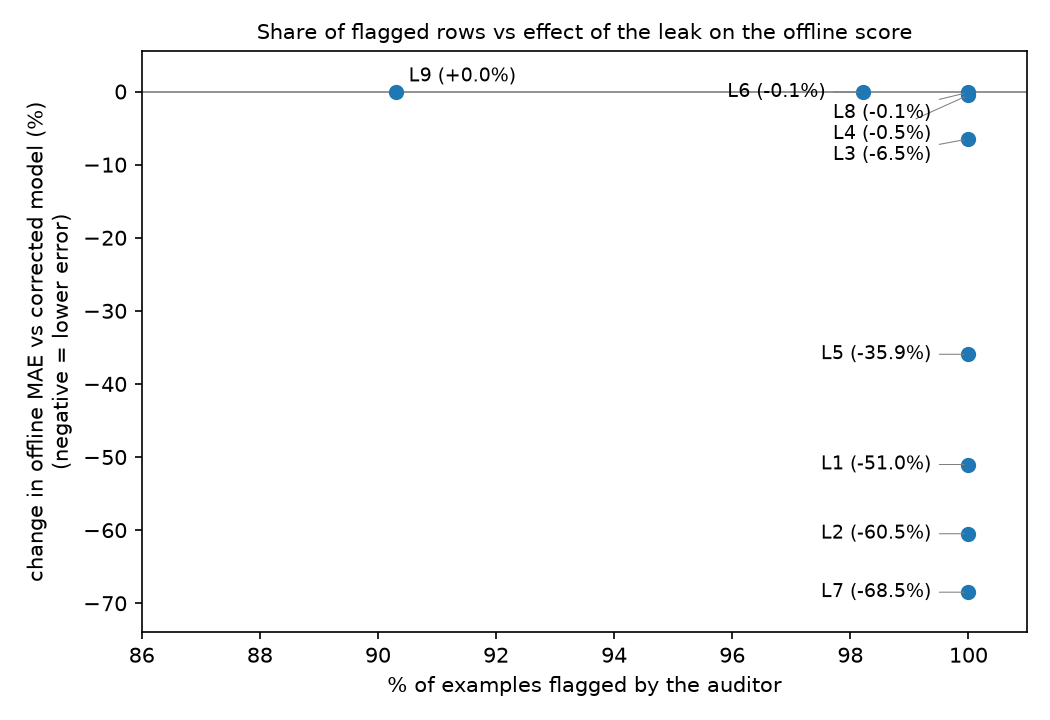
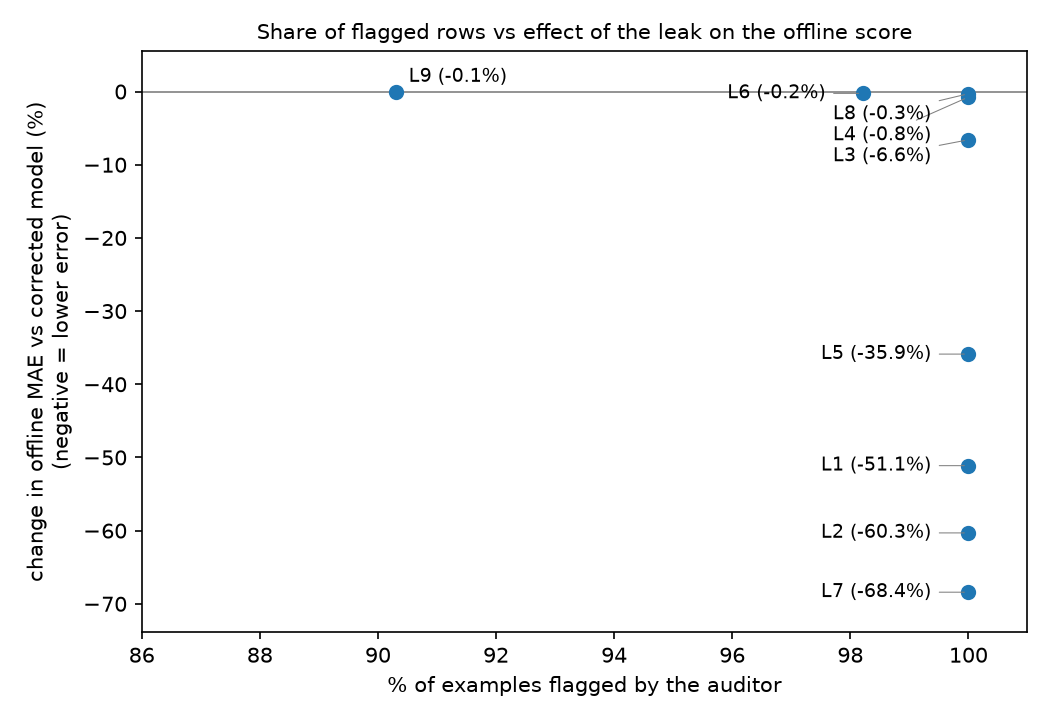
Fix order-dependent float sums: accumulate integer seconds; regenerate results

diff --git a/tests/test_determinism.py b/tests/test_determinism.py
@@ -1,0 +1,109 @@
+"""Reproducibility: rebuilding must give identical features.
+
+Regression tests for a defect found by comparing two rebuilds of the real database:
+summing decimal minutes in DuckDB windows is order-dependent for rows with tied
+timestamps, which changed feature values at the 1e-13 level and, through the
+model's histogram bins, changed a score in the third decimal. Durations are now
+accumulated as integer seconds."""
+import contextlib
+import io
+
+import duckdb
+import numpy as np
+import pandas as pd
+import pytest
+
+from leakscope.feature_builder import create_zone_cum, create_zone_global
+from leakscope.ingestion import load_config
+from leakscope.pipeline import run_all
+from leakscope.synthetic import generate, make_demo_config
+
+
+def _trips(order_seed, n=3000):
+    """Same trips every time, but in a different insertion order; only 60 distinct
+    timestamps, so many rows are tied."""
+    rng = np.random.default_rng(5)
+    zones = rng.integers(1, 4, n)
+    times = (np.datetime64("2024-01-10T10:00:00", "s")
+             + rng.integers(0, 60, n).astype("timedelta64[s]"))
+    seconds = rng.integers(60, 10800, n)
+    df = pd.DataFrame({
+        "trip_id": np.arange(n), "pu_zone": zones, "event_pickup": times,
+        "avail_dropoff": times + seconds.astype("timedelta64[s]"),
+        "duration_min": seconds / 60.0})
+    return df.sample(frac=1.0, random_state=order_seed).reset_index(drop=True)
+
+
+def _con(df):
+    con = duckdb.connect()
+    con.execute("SET threads=2")
+    con.execute("CREATE TABLE trip_times AS SELECT * FROM df")
+    return con
+
+
+@pytest.mark.parametrize("order_col, table", [("avail_dropoff", "zone_cum"),
+                                              ("event_pickup", "zone_cum_pickup")])
+def test_running_totals_do_not_depend_on_the_order_of_tied_rows(order_col, table):
+    results = []
+    for seed in (1, 2, 3):
+        con = _con(_trips(seed))
+        create_zone_cum(con, order_col, table)
+        results.append(con.execute(
+            f"SELECT DISTINCT pu_zone, {order_col}, cum_sum, cum_cnt FROM {table} "
+            f"ORDER BY 1, 2, 3, 4").fetchall())
+        con.close()
+    assert results[0] == results[1] == results[2]
+
+
+def test_zone_global_average_does_not_depend_on_row_order():
+    results = []
+    for seed in (1, 2, 3):
+        con = _con(_trips(seed))
+        create_zone_global(con)
+        results.append(con.execute(
+            "SELECT pu_zone, zone_avg_global, n_trips FROM zone_global ORDER BY 1").fetchall())
+        con.close()
+    assert results[0] == results[1] == results[2]
+
+
+def test_running_totals_are_the_exact_minutes_of_whole_seconds():
+    con = duckdb.connect()
+    con.execute("""
+        CREATE TABLE trip_times AS
+        SELECT * FROM (VALUES
+            (1, 1, TIMESTAMP '2024-01-10 10:00:00', TIMESTAMP '2024-01-10 10:10:00', 10.0 / 60),
+            (2, 1, TIMESTAMP '2024-01-10 10:00:00', TIMESTAMP '2024-01-10 10:10:00', 20.0 / 60),
+            (3, 1, TIMESTAMP '2024-01-10 10:05:00', TIMESTAMP '2024-01-10 10:20:00', 30.0 / 60)
+        ) t(trip_id, pu_zone, event_pickup, avail_dropoff, duration_min)
+    """)
+    create_zone_cum(con)
+    rows = con.execute("SELECT avail_dropoff, cum_sum, cum_cnt FROM zone_cum "
+                       "ORDER BY avail_dropoff, cum_cnt").fetchall()
+    con.close()
+    assert [(r[1], r[2]) for r in rows] == [(30.0 / 60, 2), (30.0 / 60, 2), (60.0 / 60, 3)]
+
+
+def test_rebuilding_the_pipeline_gives_identical_feature_tables(tmp_path):
+    builds = []
+    for name in ("a", "b"):
+        work = tmp_path / name
+        generate(work, n_trips=30_000)
+        cfg = make_demo_config(work, "configs/taxi.yaml", n_examples=8000, n_boot=50)
+        with contextlib.redirect_stdout(io.StringIO()):
+            run_all(str(cfg))
+        builds.append(load_config(cfg)["data"]["database"])
+    con = duckdb.connect()
+    con.execute(f"ATTACH '{builds[0]}' AS a (READ_ONLY)")
+    con.execute(f"ATTACH '{builds[1]}' AS b (READ_ONLY)")
+    columns = {"scenario_features": ["zone_avg_dur_60m", "leak_zone_avg_60m_self",
+                                     "leak_zone_avg_60m_inprogress", "leak_fare_correction",
+                                     "leak_snapshot_zone_avg", "leak_last_fare_zone"],
+               "pit_features": ["zone_avg_dur_asof", "zone_avg_dur_7d"],
+               "row_features": ["leak_zone_avg_global"]}
+    for table, cols in columns.items():
+        for col in cols:
+            n_diff = con.execute(
+                f"SELECT count(*) FILTER (WHERE x.{col} IS DISTINCT FROM y.{col}) "
+                f"FROM a.{table} x JOIN b.{table} y USING (trip_id)").fetchone()[0]
+            assert n_diff == 0, f"{table}.{col}: {n_diff} values differ between rebuilds"
+    con.close()

diff --git a/src/leakscope/feature_builder.py b/src/leakscope/feature_builder.py
@@ -1,40 +1,50 @@
-"""Build feature source tables and row-level features.
-
-zone_cum    : running totals per zone ordered by availability time (the
-              'bank statement' used for point-in-time lookups)
-zone_global : whole-dataset zone averages (used ONLY as a leaky feature)
-row_features: one row per prediction example with safe and leaky row-level
-              features, plus the target.
-"""
+"""Build feature source tables and row-level features."""
 from leakscope.ingestion import connect, load_config
 
-def create_zone_cum(con):
-    """Running totals per zone ordered by availability time."""
-    con.execute("DROP TABLE IF EXISTS zone_cum")
-    con.execute("""
-        CREATE TABLE zone_cum AS
+CUM_TABLES = {"avail_dropoff": "zone_cum", "event_pickup": "zone_cum_pickup"}
+
+
+def create_zone_cum(con, order_col="avail_dropoff", out="zone_cum"):
+    """Running totals of duration per zone, ordered by `order_col`.
+
+    Durations are accumulated as INTEGER SECONDS, so the sums are exact and do not
+    depend on the order in which rows with the same timestamp are added; the total
+    is converted to minutes only at the end. Adding decimal minutes instead made
+    rebuilds differ at the 1e-13 level, which was enough to change model scores.
+    """
+    if order_col not in CUM_TABLES or out != CUM_TABLES[order_col]:
+        raise ValueError(f"unsupported cumulative table {out!r} ordered by {order_col!r}")
+    con.execute(f"DROP TABLE IF EXISTS {out}")
+    con.execute(f"""
+        CREATE TABLE {out} AS
         SELECT pu_zone,
-               avail_dropoff,
-               sum(duration_min) OVER w AS cum_sum,
-               count(*)          OVER w AS cum_cnt
+               {order_col},
+               (sum(CAST(round(duration_min * 60) AS BIGINT)) OVER w) / 60.0 AS cum_sum,
+               count(*) OVER w AS cum_cnt
         FROM trip_times
-        WINDOW w AS (PARTITION BY pu_zone ORDER BY avail_dropoff)
+        WINDOW w AS (PARTITION BY pu_zone ORDER BY {order_col})
     """)
+
+
+def create_zone_global(con):
+    """Whole-dataset zone averages (used ONLY as a leaky feature), from integer seconds."""
+    con.execute("DROP TABLE IF EXISTS zone_global")
+    con.execute("""
+        CREATE TABLE zone_global AS
+        SELECT pu_zone,
+               (sum(CAST(round(duration_min * 60) AS BIGINT)) / 60.0) / count(*)
+                   AS zone_avg_global,
+               count(*) AS n_trips
+        FROM trip_times
+        GROUP BY pu_zone
+    """)
+
 
 def build_feature_tables(cfg):
     con = connect(cfg)
     try:
         create_zone_cum(con)
-
-        con.execute("DROP TABLE IF EXISTS zone_global")
-        con.execute("""
-            CREATE TABLE zone_global AS
-            SELECT pu_zone,
-                   avg(duration_min) AS zone_avg_global,
-                   count(*)          AS n_trips
-            FROM trip_times
-            GROUP BY pu_zone
-        """)
+        create_zone_global(con)
 
         con.execute("DROP TABLE IF EXISTS row_features")
         con.execute("""
@@ -43,13 +53,11 @@ def build_feature_tables(cfg):
                 p.trip_id,
                 p.t_pred,
                 p.target_duration_min,
-                -- valid row-level features (N1)
                 hour(p.t_pred)                     AS pickup_hour,
                 dayofweek(p.t_pred)                AS pickup_dow,
                 c.PULocationID                     AS pu_zone,
                 coalesce(c.passenger_count, 1)     AS passenger_count_filled,
                 (c.passenger_count IS NULL)::INT   AS passenger_missing,
-                -- intentionally leaky features
                 c.trip_distance                    AS leak_trip_distance,
                 c.total_amount                     AS leak_total_amount,
                 hour(c.tpep_dropoff_datetime)      AS leak_dropoff_hour,

diff --git a/src/leakscope/scenarios.py b/src/leakscope/scenarios.py
@@ -41,15 +41,7 @@ SCENARIO_NAMES = {
 
 def build_scenario_features(con, examples="row_features", window_min=WINDOW_MIN):
     # running totals ordered by PICKUP time (used by the faulty L6 window)
-    con.execute("DROP TABLE IF EXISTS zone_cum_pickup")
-    con.execute("""
-        CREATE TABLE zone_cum_pickup AS
-        SELECT pu_zone, event_pickup,
-               sum(duration_min) OVER w AS cum_sum,
-               count(*)          OVER w AS cum_cnt
-        FROM trip_times
-        WINDOW w AS (PARTITION BY pu_zone ORDER BY event_pickup)
-    """)
+    create_zone_cum(con, "event_pickup", "zone_cum_pickup")
     build_lookback(con, window_min, "win_avail", examples,
                    cum="zone_cum", time_col="avail_dropoff")
     build_lookback(con, window_min, "win_pickup", examples,

diff --git a/results/report.md b/results/report.md
@@ -5,8 +5,8 @@
 ## Summary
 
 - **Audit:** 10 of 10 leaky features were flagged and 9 of 9 valid features were left alone (feature level: precision 1.000, recall 1.000; rule level: precision 1.000, recall 1.000). The scenarios were designed together with the auditor, so this shows that the implementation matches its specification, not that all leakage is caught (see section 3).
-- **Honest model:** MAE 6.809 min on the test week, against 7.787 for a constant-median baseline.
-- **Offline vs production:** with all leaky features the offline MAE is 1.451 min (-78.7% vs the honest model). When the leaked values are not available at prediction time the same model scores 8.461 min (+24.3% vs the honest model).
+- **Honest model:** MAE 6.817 min on the test week, against 7.787 for a constant-median baseline.
+- **Offline vs production:** with all leaky features the offline MAE is 1.451 min (-78.7% vs the honest model). When the leaked values are not available at prediction time the same model scores 8.471 min (+24.3% vs the honest model).
 
 ![fig_offline_vs_production.png](../assets/fig_offline_vs_production.png)
 
@@ -84,17 +84,17 @@ Same algorithm (HistGradientBoostingRegressor), same seed (0), purged chronologi
 
 | Experiment | MAE [95% CI] | dMAE vs corrected | dRMSE vs corrected | MAE difference | Rows flagged |
 |---|---|---|---|---|---|
-| corrected (valid features only) | 6.809 [6.613, 6.999] | (reference) | (reference) | - | - |
-| + L1 leak_trip_distance | 3.335 [3.211, 3.456] | -3.474 [-3.585, -3.361] | -4.323 [-4.546, -4.091] | clearly lower | 100.0% |
-| + L2 leak_total_amount | 2.690 [2.601, 2.775] | -4.119 [-4.246, -3.985] | -4.720 [-4.915, -4.509] | clearly lower | 100.0% |
-| + L3 leak_dropoff_hour | 6.368 [6.204, 6.526] | -0.441 [-0.493, -0.392] | -0.775 [-0.870, -0.680] | clearly lower | 100.0% |
-| + L4 leak_zone_avg_global | 6.776 [6.585, 6.965] | -0.033 [-0.050, -0.015] | -0.003 [-0.036, +0.032] | clearly lower | 100.0% |
-| + L5 leak_zone_avg_60m_self | 4.362 [4.212, 4.511] | -2.447 [-2.540, -2.352] | -2.937 [-3.094, -2.778] | clearly lower | 100.0% |
-| + L6 leak_zone_avg_60m_inprogress | 6.804 [6.611, 6.993] | -0.005 [-0.030, +0.019] | +0.004 [-0.035, +0.047] | not distinguishable from 0 | 98.2% |
-| + L7 leak_fare_correction | 2.146 [2.064, 2.222] | -4.663 [-4.807, -4.515] | -5.160 [-5.396, -4.910] | clearly lower | 100.0% |
-| + L8 leak_snapshot_zone_avg | 6.801 [6.609, 6.991] | -0.008 [-0.025, +0.011] | +0.019 [-0.010, +0.047] | not distinguishable from 0 | 100.0% |
-| + L9 leak_last_fare_zone | 6.806 [6.612, 6.994] | -0.002 [-0.014, +0.009] | -0.003 [-0.025, +0.018] | not distinguishable from 0 | 90.3% |
-| + ALL leaky features | 1.451 [1.401, 1.504] | -5.357 [-5.520, -5.189] | -6.499 [-6.759, -6.227] | clearly lower | - |
+| corrected (valid features only) | 6.817 [6.622, 7.007] | (reference) | (reference) | - | - |
+| + L1 leak_trip_distance | 3.332 [3.208, 3.454] | -3.485 [-3.592, -3.375] | -4.332 [-4.557, -4.106] | clearly lower | 100.0% |
+| + L2 leak_total_amount | 2.706 [2.618, 2.791] | -4.112 [-4.237, -3.978] | -4.718 [-4.920, -4.504] | clearly lower | 100.0% |
+| + L3 leak_dropoff_hour | 6.368 [6.202, 6.527] | -0.449 [-0.499, -0.402] | -0.788 [-0.883, -0.692] | clearly lower | 100.0% |
+| + L4 leak_zone_avg_global | 6.766 [6.576, 6.956] | -0.051 [-0.071, -0.033] | -0.036 [-0.069, -0.004] | clearly lower | 100.0% |
+| + L5 leak_zone_avg_60m_self | 4.372 [4.220, 4.522] | -2.446 [-2.541, -2.348] | -2.952 [-3.115, -2.791] | clearly lower | 100.0% |
+| + L6 leak_zone_avg_60m_inprogress | 6.801 [6.607, 6.987] | -0.017 [-0.041, +0.006] | -0.002 [-0.041, +0.038] | not distinguishable from 0 | 98.2% |
+| + L7 leak_fare_correction | 2.153 [2.069, 2.232] | -4.664 [-4.810, -4.517] | -5.142 [-5.378, -4.889] | clearly lower | 100.0% |
+| + L8 leak_snapshot_zone_avg | 6.797 [6.605, 6.986] | -0.020 [-0.038, -0.001] | -0.007 [-0.035, +0.019] | clearly lower | 100.0% |
+| + L9 leak_last_fare_zone | 6.811 [6.619, 6.997] | -0.007 [-0.025, +0.011] | -0.002 [-0.025, +0.020] | not distinguishable from 0 | 90.3% |
+| + ALL leaky features | 1.451 [1.400, 1.504] | -5.366 [-5.530, -5.203] | -6.509 [-6.765, -6.243] | clearly lower | - |
 
 Intervals: 95% percentile, paired hour-block bootstrap (resampling whole hours of the test week).
 
@@ -106,16 +106,16 @@ Intervals: 95% percentile, paired hour-block bootstrap (resampling whole hours o
 
 | Experiment | Offline MAE | Production MAE | Production - corrected [95% CI] | Verdict |
 |---|---|---|---|---|
-| + L1 leak_trip_distance | 3.335 | 8.643 | +1.835 [+1.709, +1.959] | worse |
-| + L2 leak_total_amount | 2.690 | 9.055 | +2.246 [+2.095, +2.394] | worse |
-| + L3 leak_dropoff_hour | 6.368 | 8.079 | +1.270 [+0.926, +1.689] | worse |
-| + L4 leak_zone_avg_global | 6.776 | 6.768 | -0.041 [-0.056, -0.024] | better |
-| + L5 leak_zone_avg_60m_self | 4.362 | 6.802 | -0.007 [-0.048, +0.034] | no clear difference |
-| + L6 leak_zone_avg_60m_inprogress | 6.804 | 6.835 | +0.026 [+0.005, +0.048] | worse |
-| + L7 leak_fare_correction | 2.146 | 8.998 | +2.189 [+2.050, +2.327] | worse |
-| + L8 leak_snapshot_zone_avg | 6.801 | 6.833 | +0.024 [+0.000, +0.050] | worse |
-| + L9 leak_last_fare_zone | 6.806 | 6.813 | +0.004 [-0.009, +0.017] | no clear difference |
-| + ALL leaky features | 1.451 | 8.461 | +1.652 [+1.509, +1.787] | worse |
+| + L1 leak_trip_distance | 3.332 | 8.626 | +1.808 [+1.678, +1.940] | worse |
+| + L2 leak_total_amount | 2.706 | 9.075 | +2.257 [+2.103, +2.408] | worse |
+| + L3 leak_dropoff_hour | 6.368 | 7.912 | +1.095 [+0.773, +1.482] | worse |
+| + L4 leak_zone_avg_global | 6.766 | 6.762 | -0.055 [-0.075, -0.036] | better |
+| + L5 leak_zone_avg_60m_self | 4.372 | 6.806 | -0.012 [-0.052, +0.030] | no clear difference |
+| + L6 leak_zone_avg_60m_inprogress | 6.801 | 6.842 | +0.025 [+0.002, +0.046] | worse |
+| + L7 leak_fare_correction | 2.153 | 9.035 | +2.218 [+2.076, +2.358] | worse |
+| + L8 leak_snapshot_zone_avg | 6.797 | 6.822 | +0.004 [-0.017, +0.026] | no clear difference |
+| + L9 leak_last_fare_zone | 6.811 | 6.809 | -0.008 [-0.025, +0.008] | no clear difference |
+| + ALL leaky features | 1.451 | 8.471 | +1.653 [+1.513, +1.789] | worse |
 
 Serving values are simulated: missing for the trip's own outcome fields, the correctly timed version of the feature otherwise.
 
@@ -123,8 +123,8 @@ Serving values are simulated: missing for the trip's own outcome fields, the cor
 
 | Ablation | MAE without leak | MAE with leak | dMAE [95% CI] | dMAE % | Effect in the full experiment |
 |---|---|---|---|---|---|
-| L5 without N5 (safe 60-min average removed) | 6.797 | 6.588 | -0.210 [-0.253, -0.167] | -3.1 | -35.9% |
-| L3 without pickup_hour | 6.949 | 6.840 | -0.109 [-0.146, -0.073] | -1.6 | -6.5% |
+| L5 without N5 (safe 60-min average removed) | 6.797 | 6.586 | -0.212 [-0.256, -0.169] | -3.1 | -35.9% |
+| L3 without pickup_hour | 6.962 | 6.841 | -0.121 [-0.159, -0.085] | -1.7 | -6.6% |
 
 ## 3. Limitations and assumptions
 
